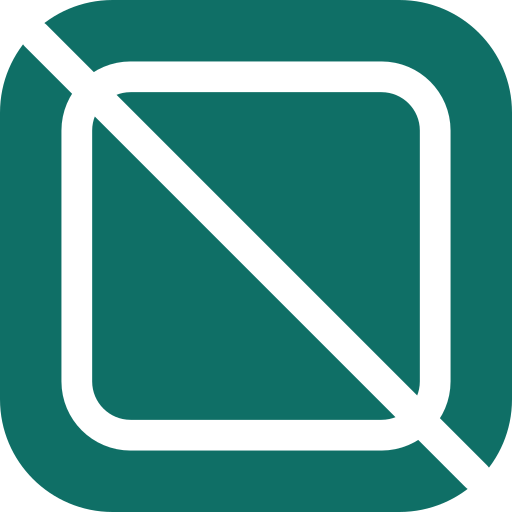
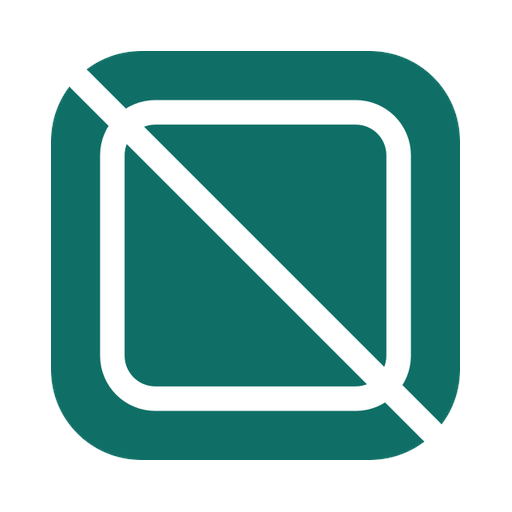
Changes

diff --git a/index.html b/index.html
@@ -10,7 +10,7 @@
     <meta name="apple-mobile-web-app-title" content="Foreman" />
     <meta name="mobile-web-app-capable" content="yes" />
     <link rel="manifest" href="/manifest.json" />
-    <link rel="apple-touch-icon" sizes="192x192" href="/icon-192.png" />
+    <link rel="apple-touch-icon" sizes="180x180" href="/apple-touch-icon.png" />
 
     <title>Foreman — Job Management & AI for Trade Businesses</title>
     <meta name="description" content="Foreman helps electricians, plumbers, and trade pros manage jobs, quotes, invoices, expenses, and teams — with AI doing the admin. 14-day free trial.">
